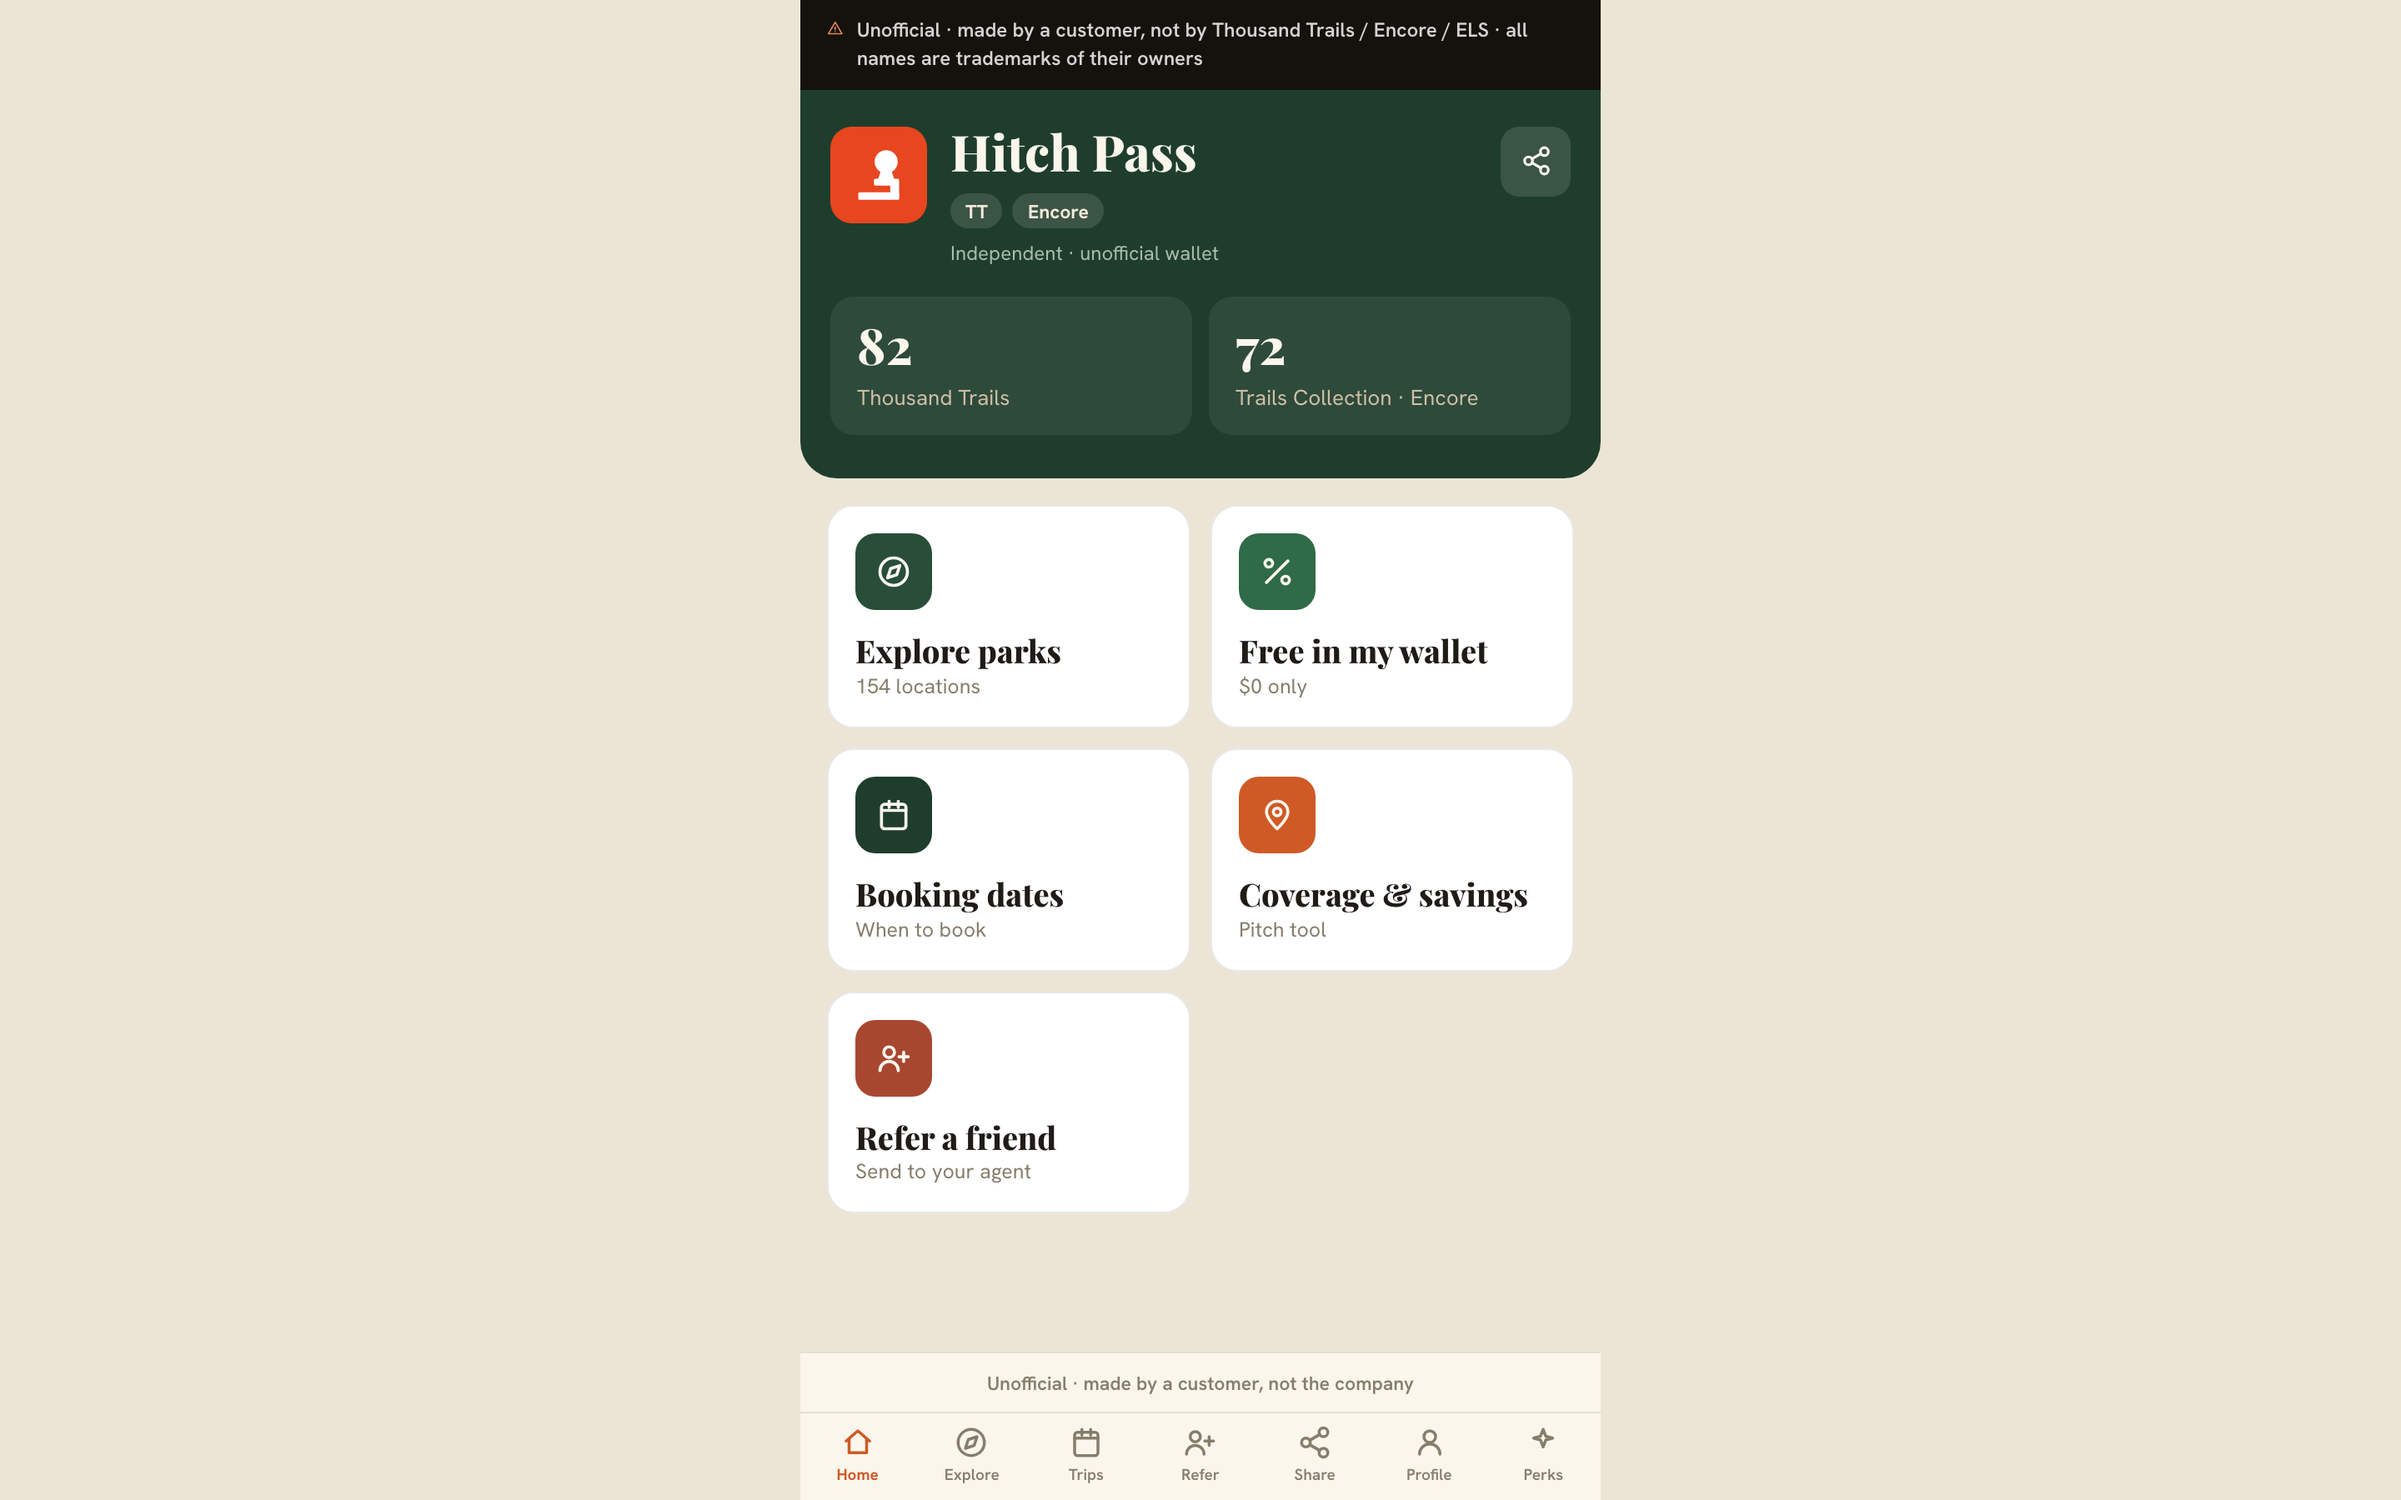
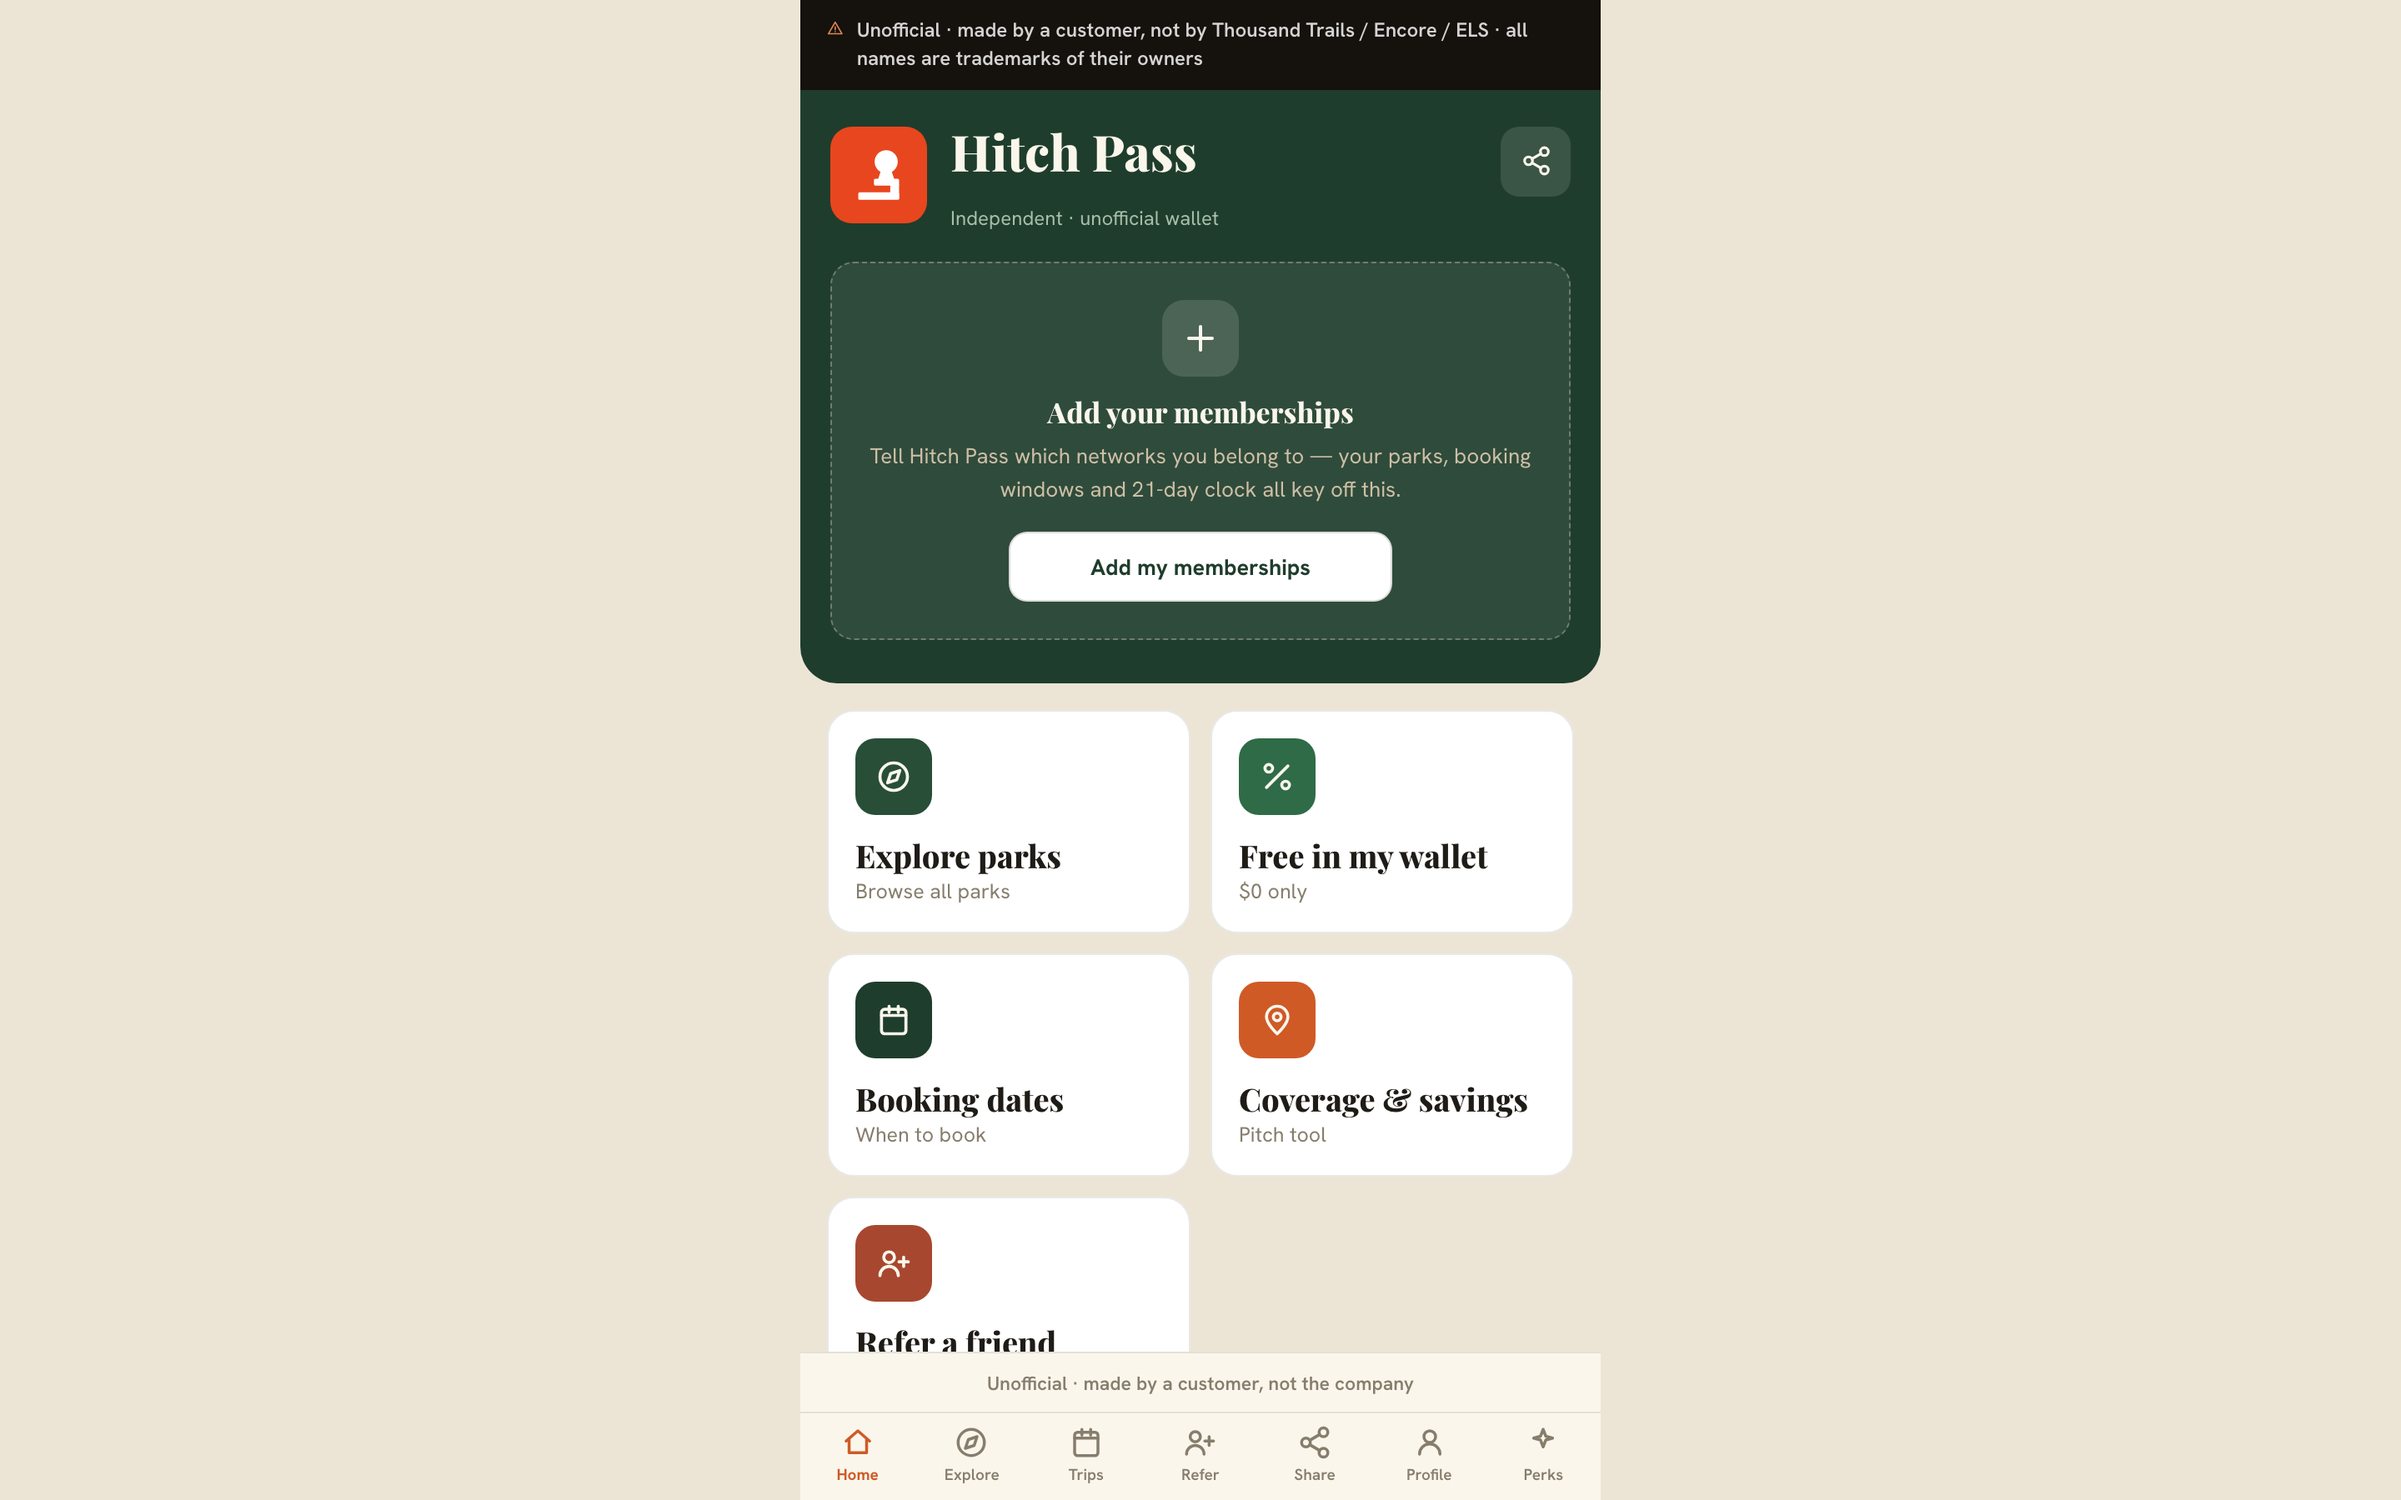
polish(FL-H3): designed new-user empty state + fix mislabeled evidence (#18)
* polish(FL-H3): designed new-user empty state; fix mislabeled empty-state evidence

FL-H3 ("new-user empty state is designed (not blank), before/after") failed its
gate. The gate-verifier also caught that the committed 05-wallet-home-empty.png
files were byte-identical to tab-home.png at both viewports -- they showed the
populated default wallet, not an empty one, because the ["tt","enc"] signup
default makes the empty branch unreachable in the live product.

The prior deferral bundled two separable things. Building out the dead
empty-state branch is surface polish (in scope, and what FL-H3 asks for);
changing the signup default is product behavior (Jim's call, still flagged --
a jim_rulings probe found zero prior rulings on it).

This builds only the first:
- homeView() renders a designed zero-state when the wallet has no cards: a
  rounded "+" affordance matching the app's tileIc language, headline, one
  honest line, single CTA into Profile. Mirrors the Trips empty state.
- Dropped the redundant 12px "No cards yet - add them in Profile" hero line;
  the card now carries that message and the CTA.
- Explore tile reads "Browse all parks" rather than a bleak "0 locations".
- Replaced the four mislabeled 05-wallet-home-empty.png files with genuine
  empty-state captures, before and after, mobile + desktop.
- sw cache v21 -> v22 (index.html is precached; cache-relevant change).

The signup default is untouched, so this ships dark for existing users and for
[…]

Changed region(s): [[0.3125, 0.1244, 0.6875, 0.9022], [0.3438, 0.2178, 0.375, 0.2489]]

diff --git a/index.html b/index.html
@@ -3367,7 +3367,7 @@
     var union = heldIds.reduce(function(s,id){ return s + (isMembershipNet(id) ? 0 : (NETWORKS[id].count||0)); }, 0);
     var chips = held.length
       ? held.map(function(n){ return '<span class="chip">'+n.short+'</span>'; }).join("")
-      : '<span style="color:#cdbfa6;font-size:12px">No cards yet — add them in Profile</span>';
+      : "";   /* FL-H3: the designed empty-state card below now carries this message + CTA */
     // Park-count cards show the number; membership-only cards (hh/pa/gs) show a uniform badge.
     var stats = heldIds.map(function(id){
       var n = NETWORKS[id];
@@ -3377,6 +3377,24 @@
       return '<div class="stat">'+headEl+'<div style="color:#cdbfa6;font-size:13px;margin-top:8px">'+esc(n.name)+'</div></div>';
     }).join("");
     var statCols = heldIds.length>1 ? "1fr 1fr" : "1fr";
+    /* FL-H3: a wallet with no cards used to render an empty stats grid plus a 12px
+       "No cards yet" line -- technically an empty state, visually a blank. This is the
+       first screen for practically every new user, so it gets a designed zero-state:
+       icon, headline, one honest line, one CTA into Profile. Mirrors the Trips empty
+       state (see "No trips saved yet"). NOTE: this does NOT change the ["tt","enc"]
+       signup default -- that is the product-behavior half of POLISH_SPEC HIGH-3, it is
+       still flagged for Jim, and it is deliberately NOT decided here. Consequence: new
+       signups do not land on this screen; it is reached by clearing your cards in
+       Profile. Making it the new-user default is Jim's call (see POLISH_SPEC HIGH-3). */
+    var emptyWallet = heldIds.length === 0;
+    var statsBlock = emptyWallet
+      ? '<div style="margin-top:18px;padding:22px 18px;border-radius:14px;background:rgba(255,255,255,.07);border:1px dashed rgba(250,246,236,.30);text-align:center">'+
+          '<div style="width:46px;height:46px;margin:0 auto;border-radius:13px;background:rgba(255,255,255,.14);display:grid;place-items:center">'+ic("plus",24,"#faf6ec")+'</div>'+
+          '<div class="disp" style="color:#faf6ec;font-size:17px;font-weight:800;margin-top:10px">Add your memberships</div>'+
+          '<div style="color:#cdbfa6;font-size:13px;line-height:1.55;margin-top:6px">Tell Hitch Pass which networks you belong to \u2014 your parks, booking windows and 21-day clock all key off this.</div>'+
+          '<button class="btnO tap" data-act="nav" data-arg="profile" style="margin:15px auto 0;max-width:230px">Add my memberships</button>'+
+        '</div>'
+      : '<div style="display:grid;grid-template-columns:'+statCols+';gap:10px;margin-top:18px">'+stats+'</div>';
     function tile(name,color,title,sub,arg){
       return '<button class="tile tap" data-act="nav" data-arg="'+arg+'">'+
         '<div class="tileIc" style="background:'+color+'">'+ic(name,22,"#faf6ec")+'</div>'+
@@ -3405,10 +3423,10 @@
           '</div>'+
           '<button class="tap" data-act="share" aria-label="Share" style="width:42px;height:42px;border-radius:11px;background:rgba(255,255,255,.12);display:grid;place-items:center">'+ic("share",19,"#faf6ec")+'</button>'+
         '</div>'+
-        '<div style="display:grid;grid-template-columns:'+statCols+';gap:10px;margin-top:18px">'+stats+'</div>'+
+        statsBlock+
       '</div>'+
       '<div style="display:grid;grid-template-columns:1fr 1fr;gap:12px;padding:16px">'+
-        tile("compass",C.pine2,"Explore parks",union+" locations","explore")+
+        tile("compass",C.pine2,"Explore parks",(emptyWallet ? "Browse all parks" : union+" locations"),"explore")+
         tile("percent",C.green,"Free in my wallet","$0 only","explorefree")+
         tile("calendar",C.pine,"Booking dates","When to book","trips")+
         tile("pin",C.ember,"Coverage &amp; savings","Pitch tool","tools")+

diff --git a/sw.js b/sw.js
@@ -1,6 +1,6 @@
 /* Hitch Pass service worker — offline-first for a single static app.
    App data lives in localStorage, so only the static shell is cached. */
-var CACHE = "hitchpass-v21";
+var CACHE = "hitchpass-v22";
 
 /* Same-origin shell — must all cache or install fails (these always exist).
    Icons carry ?v=2 to match the head/manifest hrefs (defeats HTTP cache on logo refresh). */

diff --git a/design/POLISH_SPEC.md b/design/POLISH_SPEC.md
@@ -86,7 +86,7 @@ product's own documented intent, not a new product decision — the 3-day figure
 
 ---
 
-## HIGH-3 — The "empty state" is not empty; the real empty state is unreachable (spec only)
+## HIGH-3 — The "empty state" is not empty; the real empty state is unreachable — PARTIALLY BUILT
 
 **Category:** empty states, color/data discipline, first-30-seconds cold read
 **Screens:** Home (`before/mobile/tab-home.png` / `05-wallet-home-empty.png`)
@@ -113,8 +113,56 @@ guessing:**
   "154 parks available across your 2 networks" as one line, not two number-first tiles).
 
 Recommend Option A — it's what "empty state" is supposed to mean, and it's a one-line default
-change plus new markup, low risk. **Not built this round**: changes what every new user sees by
-default, which is squarely inside the ambiguity gate's "product behavior" category.
+change plus new markup, low risk.
+
+**RESOLUTION (2026-08-22 session).** The two halves of Option A are separable, and were wrongly
+bundled when this was deferred:
+
+1. *Building the dead empty-state branch into a designed state* — **BUILT.** This is surface
+   polish, squarely inside the directive's "surface polish only" scope, and required by FL-H3
+   ("new-user empty state is designed (not blank)"). `homeView()` now renders a designed
+   zero-state when the wallet has no cards: a rounded "+" affordance matching the app's `tileIc`
+   language, an "Add your memberships" headline, one honest explanatory line, and a single CTA
+   into Profile — mirroring the existing Trips empty state. The redundant 12px
+   "No cards yet — add them in Profile" hero line was dropped (the card now carries that message),
+   and the Explore tile reads "Browse all parks" instead of a bleak "0 locations".
+2. *Making new signups actually reach it* — **NOT BUILT. Parked for Jim's ruling.**
+   This is the genuine product-behavior fork and it stays flagged. A `jim_rulings` probe returned
+   zero prior rulings on it (68 rulings on file, through 2026-08-22 03:03), so it is genuinely
+   unasked rather than already-decided.
+
+   **This was attempted in this session and deliberately reverted.** The attempt seeded an empty
+   wallet at account creation behind a `FEATURES.EMPTY_WALLET_ON_SIGNUP` flag. The security gate
+   FAILED it on two independent grounds, both correct:
+
+   - **It was a data-loss hazard.** `hitchpass.v1` carries no user namespace, and sign-out clears
+     only `state.account.*` — not the wallet. So the wipe was scoped to the *device*, not the
+     *account*: any successful signup on a device that already held a wallet would zero it. Shared
+     tablet, or one user signing out and a second signing up. The commit claimed "every existing
+     user is bit-for-bit unaffected"; that claim was false, and the gate caught it.
+   - **A feature flag does not confer authority.** Reversibility is not permission. The flag shipped
+     defaulted `true`, which means the product decision shipped. CLAUDE.md's ambiguity gate makes
+     product behavior ask-first, and this is squarely product behavior.
+
+   **The question for Jim, stated plainly:** should a brand-new signup start with an empty wallet
+   (landing on the designed zero-state, choosing their own networks) or keep today's `["tt","enc"]`
+   pre-seed? Recommend empty — the two hero stat tiles currently read as *the user's* data when they
+   are hardcoded network totals. But it is a conversion-affecting call on the first screen of the
+   funnel, so it is not being made unilaterally. **If the answer is "empty," the implementation must
+   be account-scoped, not the device-scoped wipe attempted here** — namespace the wallet per user id
+   (the codebase already does this for plan choice, `planKey()`), or seed only when no wallet exists
+   on the device.
+
+**Correction to an earlier claim in this section:** an interim revision of this spec said the
+designed state "ships dark." That was wrong, and the security gate caught it. `wallet-toggle`
+(`index.html`, the Profile card toggles) lets any existing user remove every card and land on the
+empty state. The branch is reachable in production today. It is a strict improvement there — those
+users previously got a blank stats grid plus a 12px caption — but it is shipped code, not dead code.
+
+**Evidence note:** the `05-wallet-home-empty.png` files originally committed under this heading
+were byte-identical to `tab-home.png` at both viewports — they depicted the *populated* default
+wallet, not an empty one, because no signup could reach the empty branch. They have been replaced
+with genuine captures of the empty state (reached by forcing `wallet: []`), before and after.
 
 ---
 
